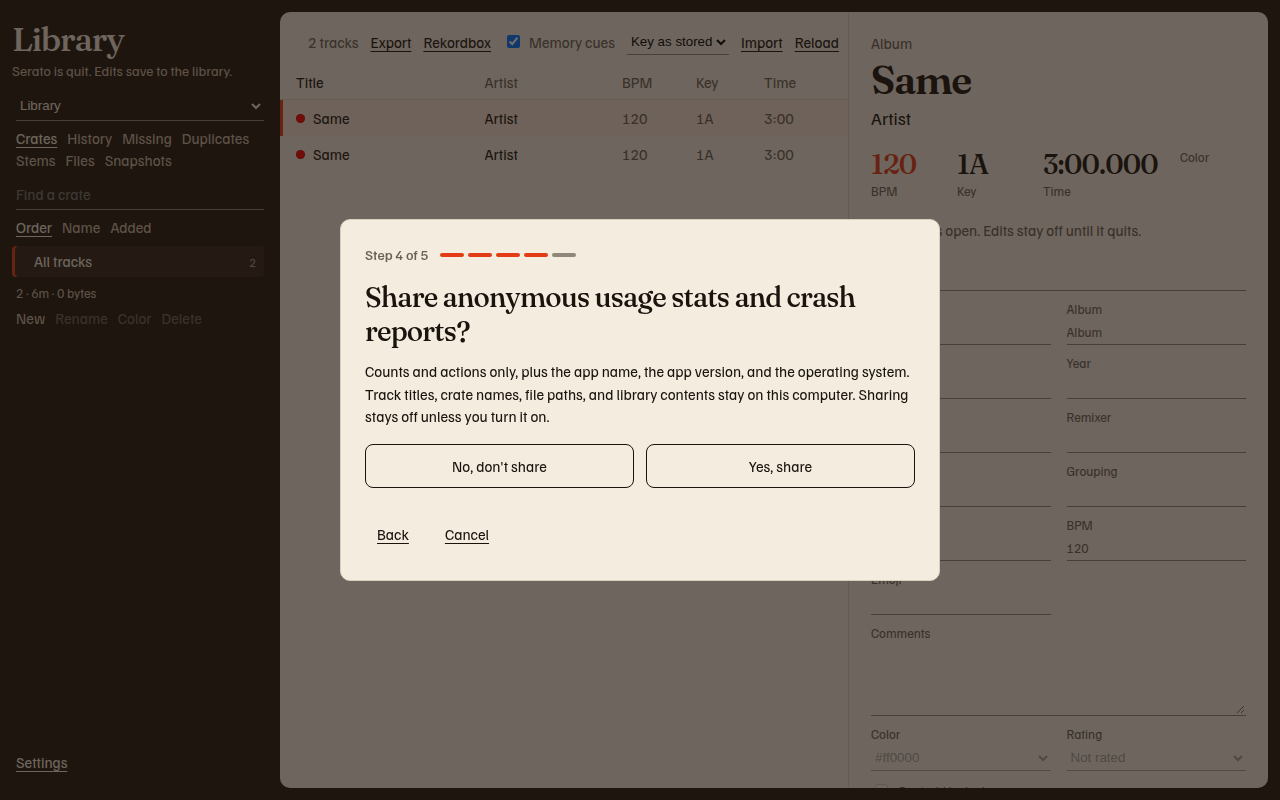
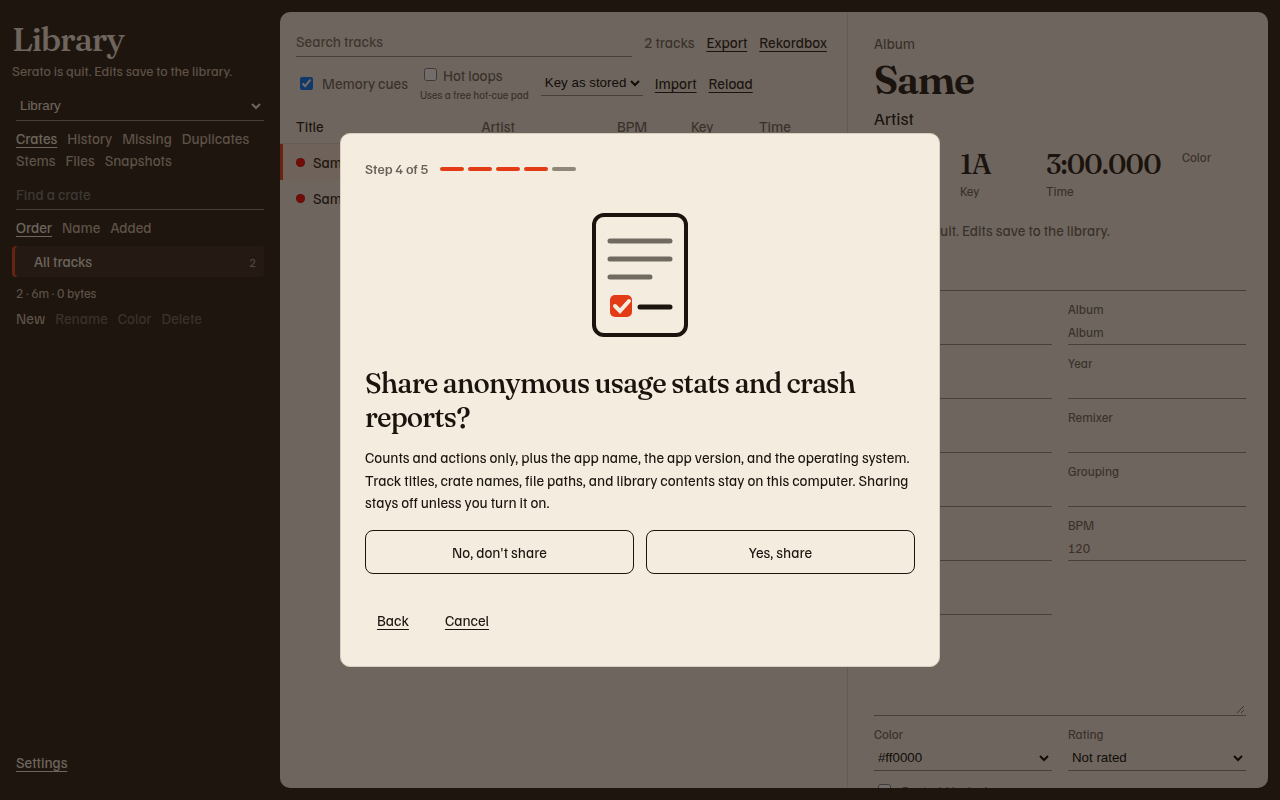
Show the setup spot illustrations in the wizard.
The five graphics use the design token aliases, sit in the 160px slots, and hide when the window is under 600px tall. SVG files are served as images.

diff --git a/static/index.html b/static/index.html
@@ -251,18 +251,18 @@
     </div>
     <p id="snapshot-status" class="dialog-status" role="status" aria-live="polite"></p>
   </dialog>
-  <!-- Designer: put an SVG or img in the matching wizard-art slot. Empty slots stay hidden. -->
+  <!-- The current step shows its spot illustration. The others stay hidden. -->
   <dialog id="wizard" aria-labelledby="wizard-title" aria-describedby="wizard-body">
     <p id="wizard-step" class="wizard-step">
       <span id="wizard-step-label"></span>
       <span id="wizard-segments" class="wizard-segments" aria-hidden="true"></span>
     </p>
     <p id="wizard-announce" class="visually-hidden" aria-live="polite"></p>
-    <div class="wizard-art" data-art-slot="welcome" hidden></div>
-    <div class="wizard-art" data-art-slot="library" hidden></div>
-    <div class="wizard-art" data-art-slot="snapshot" hidden></div>
-    <div class="wizard-art" data-art-slot="consent" hidden></div>
-    <div class="wizard-art" data-art-slot="done" hidden></div>
+    <div class="wizard-art" data-art-slot="welcome" hidden><svg xmlns="http://www.w3.org/2000/svg" width="160" height="160" viewBox="0 0 160 160" alt="" aria-hidden="true"><rect x="20" y="70" width="120" height="70" rx="12" fill="var(--illus-surface, currentColor)" stroke="var(--illus-ink, currentColor)" stroke-width="4"/><circle cx="58" cy="62" r="34" fill="var(--illus-primary, currentColor)"/><circle cx="58" cy="62" r="8" fill="var(--illus-surface, currentColor)"/><circle cx="104" cy="66" r="30" fill="var(--illus-accent, var(--illus-primary, currentColor))"/><circle cx="104" cy="66" r="7" fill="var(--illus-surface, currentColor)"/><rect x="20" y="88" width="120" height="52" rx="12" fill="var(--illus-surface, currentColor)" stroke="var(--illus-ink, currentColor)" stroke-width="4"/><path d="M60 112 h40" stroke="var(--illus-ink, currentColor)" stroke-width="6" stroke-linecap="round"/></svg></div>
+    <div class="wizard-art" data-art-slot="library" hidden><svg xmlns="http://www.w3.org/2000/svg" width="160" height="160" viewBox="0 0 160 160" alt="" aria-hidden="true"><path d="M20 50 h44 l10 12 h66 v76 h-120 Z" fill="var(--illus-surface, currentColor)" stroke="var(--illus-ink, currentColor)" stroke-width="4" stroke-linejoin="round"/><circle cx="76" cy="98" r="26" fill="var(--illus-primary, currentColor)"/><circle cx="76" cy="98" r="7" fill="var(--illus-surface, currentColor)"/><circle cx="112" cy="108" r="20" fill="none" stroke="var(--illus-ink, currentColor)" stroke-width="7"/><path d="M126 122 l18 18" stroke="var(--illus-ink, currentColor)" stroke-width="9" stroke-linecap="round"/></svg></div>
+    <div class="wizard-art" data-art-slot="snapshot" hidden><svg xmlns="http://www.w3.org/2000/svg" width="160" height="160" viewBox="0 0 160 160" alt="" aria-hidden="true"><path d="M80 18 L136 40 v40 c0 34 -24 56 -56 66 c-32 -10 -56 -32 -56 -66 v-40 Z" fill="var(--illus-surface, currentColor)" stroke="var(--illus-ink, currentColor)" stroke-width="4" stroke-linejoin="round"/><circle cx="80" cy="78" r="30" fill="var(--illus-primary, currentColor)"/><circle cx="80" cy="78" r="8" fill="var(--illus-surface, currentColor)"/><path d="M62 118 l12 12 l26 -26" fill="none" stroke="var(--illus-accent, var(--illus-primary, currentColor))" stroke-width="7" stroke-linecap="round" stroke-linejoin="round"/></svg></div>
+    <div class="wizard-art" data-art-slot="consent" hidden><svg xmlns="http://www.w3.org/2000/svg" width="160" height="160" viewBox="0 0 160 160" alt="" aria-hidden="true"><rect x="34" y="20" width="92" height="120" rx="10" fill="var(--illus-surface, currentColor)" stroke="var(--illus-ink, currentColor)" stroke-width="4"/><path d="M50 46 h60 M50 64 h60 M50 82 h40" stroke="var(--illus-ink, currentColor)" stroke-width="5" stroke-linecap="round" opacity=".6"/><rect x="50" y="100" width="22" height="22" rx="5" fill="var(--illus-primary, currentColor)"/><path d="M55 111 l5 5 l9 -10" fill="none" stroke="var(--illus-surface, currentColor)" stroke-width="4" stroke-linecap="round"/><path d="M80 112 h30" stroke="var(--illus-ink, currentColor)" stroke-width="5" stroke-linecap="round"/></svg></div>
+    <div class="wizard-art" data-art-slot="done" hidden><svg xmlns="http://www.w3.org/2000/svg" width="160" height="160" viewBox="0 0 160 160" alt="" aria-hidden="true"><circle cx="80" cy="80" r="60" fill="var(--illus-primary, currentColor)"/><circle cx="80" cy="80" r="42" fill="none" stroke="var(--illus-surface, currentColor)" stroke-width="3" opacity=".5"/><path d="M52 82 l18 18 l38 -40" fill="none" stroke="var(--illus-surface, currentColor)" stroke-width="11" stroke-linecap="round" stroke-linejoin="round"/><circle cx="138" cy="26" r="6" fill="var(--illus-accent, var(--illus-primary, currentColor))"/><circle cx="22" cy="40" r="5" fill="var(--illus-accent, var(--illus-primary, currentColor))"/><circle cx="140" cy="132" r="4" fill="var(--illus-ink, currentColor)"/></svg></div>
     <h2 id="wizard-title" tabindex="-1"></h2>
     <p id="wizard-body"></p>
     <p id="wizard-next" class="dialog-note" hidden></p>

diff --git a/static/app.css b/static/app.css
@@ -1115,18 +1115,25 @@ dialog .check input {
 }
 
 .wizard-art:not([hidden]) {
-  display: block;
+  display: flex;
+  justify-content: center;
   box-sizing: border-box;
   height: 160px;
-  margin: 0 0 var(--space-4);
+  margin: 0 0 var(--space-3);
   overflow: hidden;
 }
 
 .wizard-art svg,
 .wizard-art img {
   display: block;
-  width: 100%;
+  width: 160px;
   height: 160px;
+}
+
+@media (max-height: 599px) {
+  .wizard-art:not([hidden]) {
+    display: none;
+  }
 }
 
 #wizard-title:focus {

diff --git a/static/tokens.css b/static/tokens.css
@@ -72,6 +72,12 @@
   --space-4: 16px;
   --space-5: 24px;
   --space-6: 32px;
+
+  /* Spot illustrations. The names match design/tokens.css. */
+  --illus-primary: var(--color-primary);
+  --illus-surface: var(--color-card);
+  --illus-ink: var(--color-text);
+  --illus-accent: var(--color-safe);
 }
 
 /* Preview of the three meanings. Text uses the -text tokens. The warn

diff --git a/design/tokens.css b/design/tokens.css
@@ -32,4 +32,10 @@
   --space-4: 16px;
   --space-5: 24px;
   --space-6: 32px;
+
+  /* Spot illustrations. Roles use the tokens above. No separate hex. */
+  --illus-primary: var(--color-primary);
+  --illus-surface: var(--color-card);
+  --illus-ink: var(--color-text);
+  --illus-accent: var(--color-safe);
 }

diff --git a/tests/test_server.py b/tests/test_server.py
@@ -290,6 +290,28 @@ class ApiTests(unittest.TestCase):
         self.assertIn(b"--color-bg: #231910", body)
         self.assertNotIn(b"#0d0f14", body)
 
+    def test_wizard_svg_is_an_image(self) -> None:
+        """Serve a setup illustration as an SVG image.
+
+        An ``img`` will not paint the file when the type is a generic
+        byte stream.
+
+        Returns:
+            None. The test fails if the media type is not ``image/svg+xml``.
+        """
+        host, port = self.httpd.server_address
+        connection = http.client.HTTPConnection(host, port, timeout=5)
+        connection.putrequest("GET", "/img/wizard/wizard-welcome.svg")
+        connection.endheaders()
+        response = connection.getresponse()
+        body = response.read()
+        content_type = response.getheader("Content-Type")
+        connection.close()
+        self.assertEqual(response.status, 200)
+        self.assertEqual(content_type, "image/svg+xml")
+        self.assertIn(b"--illus-primary", body)
+        self.assertNotIn(b"#", body)
+
     def test_save_and_read_track(self) -> None:
         """Save a comment through POST ``/api/track`` and read it back.
 

diff --git a/tests/test_release_bundle.py b/tests/test_release_bundle.py
@@ -92,6 +92,16 @@ class AssetTests(unittest.TestCase):
         """
         names = static_assets.local_asset_names(ROOT / "static" / "index.html")
         self.assertEqual(names, ["tokens.css", "app.css", "wizard.js", "app.js"])
+        page = (ROOT / "static" / "index.html").read_text(encoding="utf-8")
+        for name in (
+            "wizard-welcome.svg",
+            "wizard-find-library.svg",
+            "wizard-safety-snapshot.svg",
+            "wizard-consent.svg",
+            "wizard-done.svg",
+        ):
+            artwork = (ROOT / "static" / "img" / "wizard" / name).read_text(encoding="utf-8").strip()
+            self.assertIn(artwork, page)
         self.assertEqual(static_assets.missing_static_files(ROOT / "static"), [])
 
     def test_remote_links_are_not_assets(self) -> None:

diff --git a/tests/test_setup.py b/tests/test_setup.py
@@ -417,6 +417,9 @@ class MissingLibraryServerTests(unittest.TestCase):
                     self.assertIn("Get started", page)
                     self.assertIn('data-art-slot="welcome"', page)
                     self.assertIn('data-art-slot="done"', page)
+                    self.assertIn('alt=""', page)
+                    self.assertIn('aria-hidden="true"', page)
+                    self.assertIn("var(--illus-primary, currentColor)", page)
                     self.assertNotIn("Art placeholder", page)
                     status, payload = _request(base, "/api/setup")
                     self.assertEqual(status, 200)

diff --git a/server.py b/server.py
@@ -2159,6 +2159,7 @@ class Handler(BaseHTTPRequestHandler):
                     ".html": "text/html; charset=utf-8",
                     ".css": "text/css; charset=utf-8",
                     ".js": "text/javascript; charset=utf-8",
+                    ".svg": "image/svg+xml",
                 }.get(path.suffix, "application/octet-stream")
                 body = path.read_bytes()
                 self.send_response(200)

diff --git a/CLAUDE.md b/CLAUDE.md
@@ -51,7 +51,7 @@ npm run build
 - `library.py` reads and writes `master.sqlite`. The live path is Application Support on macOS and `%LOCALAPPDATA%\Serato\Library` on Windows. `root.sqlite` beside the master file is updated when it is attached. Writes are refused while a live Serato process holds the lock. The first write in a process copies both databases into `Library/Backups`. `serato_web/completeness.py` is the shared check for a finished backup or snapshot directory (`is_complete`, `verify_legacy_backup`). Reveal uses Finder on macOS and File Explorer on Windows.
 - `files.py` renames, moves, replaces, and trashes audio. It updates path columns in `master.sqlite` and the mirrored location database in one transaction, after a backup, and only while Serato is quit. A journal under `Library/Backups` puts the files back if the database write fails. A successful move also updates related-track paths.
 - `tags.py` reads Serato markers from ID3 GEOB frames (`Markers2`, `BeatGrid`), from FLAC Vorbis comments (`SERATO_MARKERS_V2`, `SERATO_BEATGRID`), and from M4A/MP4 freeform atoms (`----:com.serato.dj:markersv2` and `beatgrid`). It can copy GEOB frames onto a plain ID3v2.3 file or an MP3 that has no tag yet. FLAC, M4A, and other layouts are left unchanged by that copy. `snapshot_frames.py` is what puts a snapshot's exact Markers2, BeatGrid, and Autotags bytes back. A full ID3 rewrite from another program can still drop those frames.
-- `src/` is the page in strict TypeScript. `app.ts` wires the screen. `views.ts` paints crates, history, missing tracks, duplicates, stems, and files. `dialogs.ts` is the Rekordbox, merge, sharing, and file dialogs. `wizard.ts` and `wizard-view.ts` are the first-run setup. `virtual-scroll.ts` paints the track rows. `restore.ts` is snapshots. `splitter.ts` is the draggable list/details divider, and `layout.ts` mounts it on the track sheet and saves its width in `settings.json`. `format.ts`, `api.ts`, `api-types.ts`, `state.ts`, `dom.ts`, and `bridge.ts` are the rest. `package.json` requires Node `>=22`. `npm run build` bundles `src/app.ts` to `static/app.js` and `src/wizard-view.ts` to `static/wizard.js`, both IIFEs. Those files are committed, so the server does not need Node. `static/` is `index.html`, `tokens.css`, `app.css`, `app.js`, `app.js.map`, `wizard.js`, and `wizard.js.map`. Views are crates, history, missing, duplicates, stems, files, and snapshots. The Duplicates view can merge a group into the copy you keep. The Snapshots view lists hash-checked snapshots, previews a restore, and can undo an outside change. Spaces are Serato Library, Serato Video, Apple Music, and Prepare. The track detail pane lists related tracks. The first launch runs setup until `wizard_complete` is true: confirm the library, save a safety snapshot, and choose whether to share anonymous stats. Cancel does not finish setup. Settings can change the sharing choice, run setup again, and open or copy the local log.
+- `src/` is the page in strict TypeScript. `app.ts` wires the screen. `views.ts` paints crates, history, missing tracks, duplicates, stems, and files. `dialogs.ts` is the Rekordbox, merge, sharing, and file dialogs. `wizard.ts` and `wizard-view.ts` are the first-run setup. `virtual-scroll.ts` paints the track rows. `restore.ts` is snapshots. `splitter.ts` is the draggable list/details divider, and `layout.ts` mounts it on the track sheet and saves its width in `settings.json`. `format.ts`, `api.ts`, `api-types.ts`, `state.ts`, `dom.ts`, and `bridge.ts` are the rest. `package.json` requires Node `>=22`. `npm run build` bundles `src/app.ts` to `static/app.js` and `src/wizard-view.ts` to `static/wizard.js`, both IIFEs. Those files are committed, so the server does not need Node. `static/` is `index.html`, `tokens.css`, `app.css`, `app.js`, `app.js.map`, `wizard.js`, `wizard.js.map`, and the setup illustrations in `img/wizard/`. Views are crates, history, missing, duplicates, stems, files, and snapshots. The Duplicates view can merge a group into the copy you keep. The Snapshots view lists hash-checked snapshots, previews a restore, and can undo an outside change. Spaces are Serato Library, Serato Video, Apple Music, and Prepare. The track detail pane lists related tracks. The first launch runs setup until `wizard_complete` is true: confirm the library, save a safety snapshot, and choose whether to share anonymous stats. Cancel does not finish setup. Settings can change the sharing choice, run setup again, and open or copy the local log.
 - `docs/wiki/` is the GitHub wiki draft: `Home.md`, `Quick-Start.md`, `Install-macOS.md`, `Install-Windows.md`, and `docs/wiki/images/`. Copy those pages into the wiki by hand. Do not push the wiki from this repository. `docs/quick-start.md` is the same Quick Start in the user guide, with light and dark pictures. The wiki page uses the light PNG.
 - `docs/serato-library-tools.md` is research notes, not runtime config.
 - `docs/architecture.md` is the code reference. Update it in the same change as the behavior it describes.

diff --git a/docs/architecture.md b/docs/architecture.md
@@ -244,7 +244,7 @@ Sharing uses the same question as before, with **No, don't share** and **Yes, sh
 
 Done says "Library ready. Snapshot saved." **Open my library** posts `wizard_complete` true. That post is rejected with 400 until the sharing choice is already a boolean. Settings holds the sharing choice as a checkbox, **Run setup again**, **Open logs folder**, and **Copy logs**. **Run setup again** shows the wizard even when it is already complete, and Cancel leaves the saved flag as it was. The page does not load a third-party analytics script, and it does not insert log text with `innerHTML`.
 
-`src/wizard.ts` is the step machine. `src/wizard-view.ts` paints the dialog. `scripts/build_frontend.mjs` bundles that view as a second esbuild entry into `static/wizard.js`, an IIFE named `SeratoWizard`. `index.html` loads that file before `app.js`. The page calls `SeratoWizard.open` and does not import the wizard view into `app.js`. Colors, type, and spacing for the wizard come from `tokens.css`. The primary button uses `--color-primary` with `--color-card` text. While it is disabled it keeps that fill and fades, instead of switching to another button color. An empty illustration slot sits above each heading. It stays hidden until it contains an SVG or an image, and then it is 160px tall. No graphic is shipped.
+`src/wizard.ts` is the step machine. `src/wizard-view.ts` paints the dialog. `scripts/build_frontend.mjs` bundles that view as a second esbuild entry into `static/wizard.js`, an IIFE named `SeratoWizard`. `index.html` loads that file before `app.js`. The page calls `SeratoWizard.open` and does not import the wizard view into `app.js`. Colors, type, and spacing for the wizard come from `tokens.css`. The primary button uses `--color-primary` with `--color-card` text. While it is disabled it keeps that fill and fades, instead of switching to another button color. A 160px illustration sits above each heading. The same artwork is stored in `static/img/wizard/` (`wizard-welcome.svg`, `wizard-find-library.svg`, `wizard-safety-snapshot.svg`, `wizard-consent.svg`, and `wizard-done.svg`) and inlined in the slot, so `--illus-primary`, `--illus-surface`, `--illus-ink`, and `--illus-accent` resolve on the page. Those names are aliased in `tokens.css` and `design/tokens.css` to `--color-primary`, `--color-card`, `--color-text`, and `--color-safe`. Each graphic is decorative (`alt=""` and `aria-hidden="true"`). Only the current step's slot is shown. A viewport under 600px tall hides the slot. `.svg` files are served as `image/svg+xml`.
 
 `tokens.css` is the palette, type, spacing, and radius. The page loads it before `app.css`. The values are the walnut and manila colors the screen already used. Safe and warn text on manila uses `--color-safe-text` and `--color-warn-text`. `--color-safe` and `--color-warn` are borders, fills, and icons on manila. A warn border or icon on the warn tint uses `--color-warn-border`. `design/tokens.css` is the designer's dark reference and is not linked. `app.css` aliases the old names (`--walnut`, `--manila`, `--ink`, and the rest) to those tokens and is the layout for that screen. `--row` stays 36px and matches `ROW` in `src/state.ts`. The comment in `app.css` still names `app.js`, because that is the file the page loads.
 
